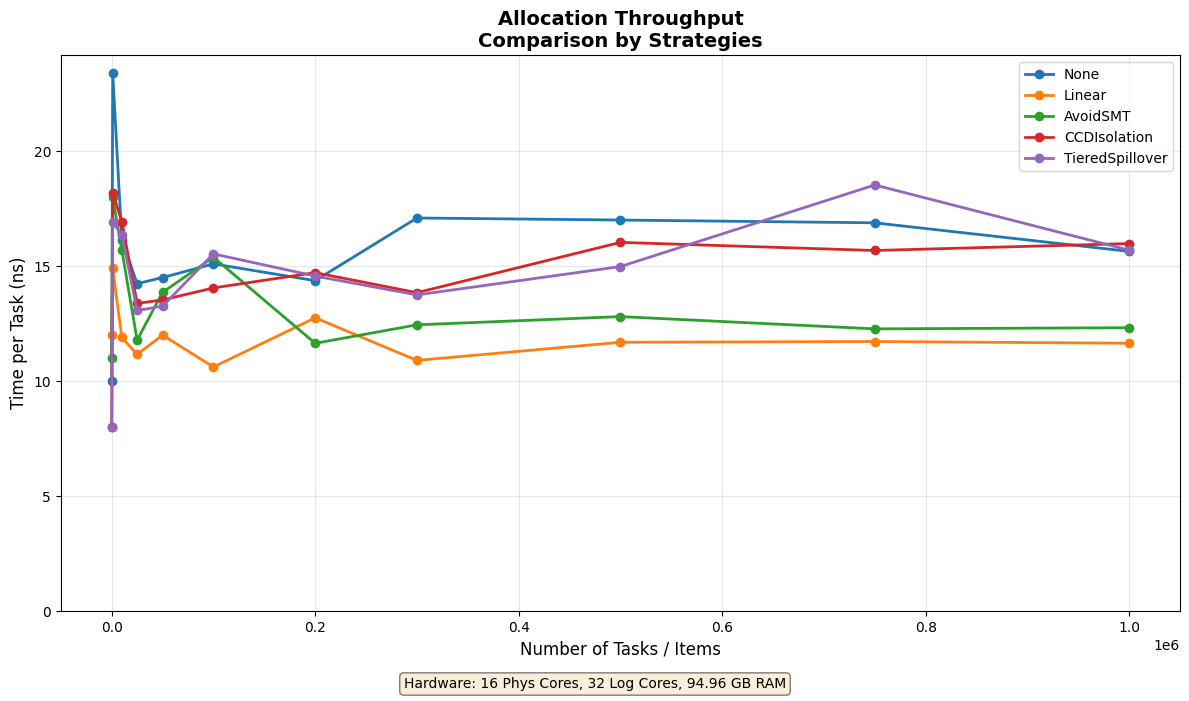
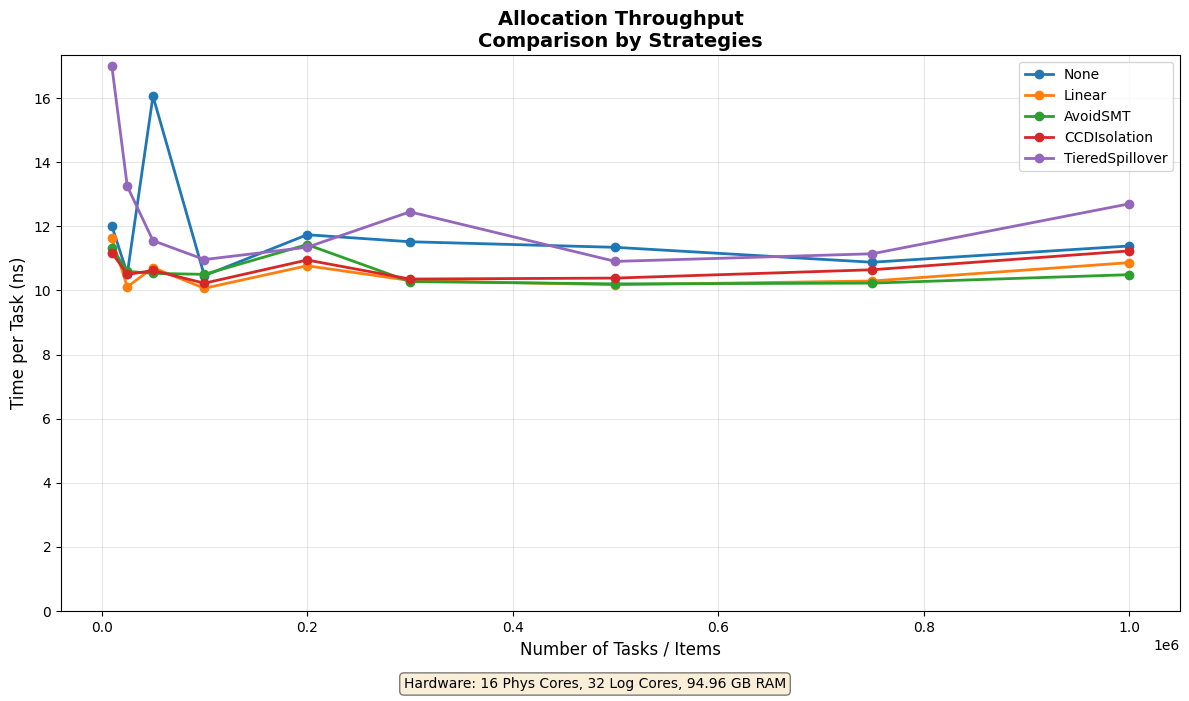
optimize benchmark , split overhead cost of smaller than 10k items to separate graph

diff --git a/src/benchmarks/nas_benchmarks.rs b/src/benchmarks/nas_benchmarks.rs
@@ -1,7 +1,7 @@
 use crate::utils::{BenchmarkResult, DataPoint, SystemInfo};
 use rustfiber::{JobSystem, PinningStrategy};
+use std::sync::Arc;
 use std::sync::atomic::{AtomicUsize, Ordering};
-use std::sync::{Arc, Mutex};
 use std::time::Instant;
 
 // Embarrassingly Parallel (EP) - Pure throughput test with zero communication
@@ -36,25 +36,21 @@ fn run_ep_benchmark(job_system: &JobSystem, num_tasks: usize) -> f64 {
 
 // Multi-Grid (MG) - Tests communication and memory bandwidth
 fn run_mg_benchmark(job_system: &JobSystem, grid_size: usize, threads: usize) -> f64 {
-    // Use a vector of per-chunk grids to reduce lock contention
+    // Use separate grids for each chunk to eliminate mutex contention
     let num_chunks = threads;
     let rows_per_chunk = grid_size / num_chunks;
 
-    // Each chunk gets its own grid section to reduce lock contention
-    let grids: Vec<_> = (0..num_chunks)
-        .map(|_| Arc::new(Mutex::new(vec![vec![0.0; grid_size]; rows_per_chunk + 2])))
-        .collect();
-
     let start = Instant::now();
 
-    // Simulate multi-grid operations with reduced communication
+    // Create independent jobs, each with its own grid
     let mut jobs: Vec<Box<dyn FnOnce() + Send>> = Vec::new();
-    for grid_clone in grids.iter().take(num_chunks) {
-        let grid_clone = grid_clone.clone();
+    for _ in 0..num_chunks {
+        // Each job gets its own grid - no sharing, no mutexes
+        let mut local_grid = vec![vec![0.0; grid_size]; rows_per_chunk + 2];
+
         jobs.push(Box::new(move || {
-            // Simulate stencil operations on local grid section
+            // Simulate stencil operations on local grid
             for _ in 0..10 {
-                let mut local_grid = grid_clone.lock().unwrap();
                 let local_size = local_grid.len();
                 for i in 1..local_size - 1 {
                     for j in 1..grid_size - 1 {
@@ -67,6 +63,8 @@ fn run_mg_benchmark(job_system: &JobSystem, grid_size: usize, threads: usize) ->
                     }
                 }
             }
+            // Prevent optimization of unused result
+            std::hint::black_box(local_grid);
         }));
     }
 
@@ -78,9 +76,6 @@ fn run_mg_benchmark(job_system: &JobSystem, grid_size: usize, threads: usize) ->
 
 // Conjugate Gradient (CG) - Tests irregular memory access
 fn run_cg_benchmark(job_system: &JobSystem, matrix_size: usize, threads: usize) -> f64 {
-    let vector = Arc::new(Mutex::new(vec![1.0; matrix_size]));
-    let result = Arc::new(Mutex::new(vec![0.0; matrix_size]));
-
     let start = Instant::now();
 
     // Simulate sparse matrix-vector multiplication with irregular access
@@ -89,25 +84,25 @@ fn run_cg_benchmark(job_system: &JobSystem, matrix_size: usize, threads: usize) 
 
     let mut jobs: Vec<Box<dyn FnOnce() + Send>> = Vec::new();
     for chunk in 0..num_chunks {
-        let vector_clone = vector.clone();
-        let result_clone = result.clone();
+        // Each job gets its own copy of input and output - no sharing
+        let input_vec = vec![1.0; matrix_size];
+        let mut output_vec = vec![0.0; chunk_size];
 
         jobs.push(Box::new(move || {
             let start_idx = chunk * chunk_size;
             let end_idx = ((chunk + 1) * chunk_size).min(matrix_size);
 
-            let vec = vector_clone.lock().unwrap();
-            let mut res = result_clone.lock().unwrap();
-
             // Irregular memory access pattern
-            for i in start_idx..end_idx {
+            for (local_i, i) in (start_idx..end_idx).enumerate() {
                 let mut sum = 0.0;
                 // Simulate sparse matrix access
                 for j in (i.saturating_sub(5)..=(i + 5).min(matrix_size - 1)).step_by(2) {
-                    sum += vec[j] * ((i + j) as f64 * 0.01);
+                    sum += input_vec[j] * ((i + j) as f64 * 0.01);
                 }
-                res[i] = sum;
+                output_vec[local_i] = sum;
             }
+            // Prevent optimization of unused result
+            std::hint::black_box(output_vec);
         }));
     }
 
@@ -130,7 +125,9 @@ pub fn run_nas_ep_benchmark(
         system_info.cpu_cores, system_info.total_memory_gb, strategy
     );
 
-    let ep_sizes = vec![10_000, 25_000, 50_000, 100_000, 200_000];
+    let ep_sizes = vec![
+        1, 10, 100, 1_000, 10_000, 25_000, 50_000, 100_000, 200_000, 300_000, 500_000, 1_000_000,
+    ];
     let mut data_points = Vec::new();
     let mut timed_out = false;
     let total_start = Instant::now();
@@ -147,7 +144,11 @@ pub fn run_nas_ep_benchmark(
         }
         eprintln!("Testing EP with {} tasks...", size);
         let elapsed_ms = run_ep_benchmark(job_system, size);
-        eprintln!("  Completed in {:.2} ms", elapsed_ms);
+        eprintln!(
+            "  Completed in {:.2} ms ({:.2} ns/item)",
+            elapsed_ms,
+            (elapsed_ms * 1_000_000.0) / (size as f64)
+        );
         data_points.push(DataPoint {
             num_tasks: size,
             time_ms: elapsed_ms,
@@ -177,17 +178,7 @@ pub fn run_nas_mg_benchmark(
         system_info.cpu_cores, system_info.total_memory_gb, strategy
     );
 
-    // Warmup: Ensure all threads are started and have allocated local resources
-    // This prevents "Cold Start" latency (memory allocation) from skewing the first benchmark data point.
-    eprintln!("Warming up workers...");
-    let warmup_jobs: Vec<Box<dyn FnOnce() + Send>> =
-        (0..threads * 4) // submit enough to wake everyone
-            .map(|_| Box::new(|| {}) as Box<dyn FnOnce() + Send>)
-            .collect();
-    let counter = job_system.run_multiple(warmup_jobs);
-    job_system.wait_for_counter(&counter);
-
-    let mg_sizes = vec![50, 100, 150, 200, 250, 300];
+    let mg_sizes = vec![16, 32, 64, 128, 256, 512, 1024];
     let mut data_points = Vec::new();
     let mut timed_out = false;
     let total_start = Instant::now();
@@ -234,7 +225,7 @@ pub fn run_nas_cg_benchmark(
         system_info.cpu_cores, system_info.total_memory_gb, strategy
     );
 
-    let cg_sizes = vec![10_000, 25_000, 50_000, 100_000];
+    let cg_sizes = vec![1_020_000, 10_050, 250_001, 50_000, 100_000];
     let mut data_points = Vec::new();
     let mut timed_out = false;
     let total_start = Instant::now();

diff --git a/src/tests.rs b/src/tests.rs
@@ -93,13 +93,14 @@ fn test_high_throughput() {
 #[test]
 fn test_yield_fairness() {
     let job_system = JobSystem::new(2);
-    // Use an atomic log to track order/interleaving
-    let log = Arc::new(std::sync::Mutex::new(Vec::new()));
+    // Use atomic counters to track completion without mutexes
+    let counter1 = Arc::new(AtomicUsize::new(0));
+    let counter2 = Arc::new(AtomicUsize::new(0));
 
-    let log1 = log.clone();
+    let counter1_clone = counter1.clone();
     let job1 = job_system.run(move || {
         for _ in 0..5 {
-            log1.lock().unwrap().push(1);
+            counter1_clone.fetch_add(1, Ordering::SeqCst);
             // This yield should allow job2 to run if on same thread,
             // or just be a no-op if on different threads.
             // But we want to test that it doesn't block forever.
@@ -107,10 +108,10 @@ fn test_yield_fairness() {
         }
     });
 
-    let log2 = log.clone();
+    let counter2_clone = counter2.clone();
     let job2 = job_system.run(move || {
         for _ in 0..5 {
-            log2.lock().unwrap().push(2);
+            counter2_clone.fetch_add(1, Ordering::SeqCst);
             crate::context::yield_now();
         }
     });
@@ -118,10 +119,9 @@ fn test_yield_fairness() {
     job_system.wait_for_counter(&job1);
     job_system.wait_for_counter(&job2);
 
-    let final_log = log.lock().unwrap();
-    assert_eq!(final_log.len(), 10);
-    // We expect some mixing, though exact interleaving depends on thread scheduling.
-    // At least ensure it completed.
+    assert_eq!(counter1.load(Ordering::SeqCst), 5);
+    assert_eq!(counter2.load(Ordering::SeqCst), 5);
+    // Both jobs completed their loops with yields
 
     job_system.shutdown().expect("Shutdown failed");
 }

diff --git a/src/benchmarks/batching_benchmark.rs b/src/benchmarks/batching_benchmark.rs
@@ -18,7 +18,8 @@ pub fn run_batching_benchmark(
     );
 
     let test_sizes = vec![
-        100, 1000, 10_000, 25_000, 50_000, 100_000, 200_000, 300_000, 500_000, 750_000, 1_000_000,
+        1, 100, 1000, 10_000, 25_000, 50_000, 100_000, 200_000, 300_000, 500_000, 750_000,
+        1_000_000,
     ];
 
     let mut data_points = Vec::new();
@@ -42,12 +43,12 @@ pub fn run_batching_benchmark(
         b
     }
     // Warmup: Run a large batching task to ensure all workers are awake and hot
-    eprintln!("Warming up workers with batching...");
-    let warmup_counter = job_system.parallel_for_chunked_auto(0..100_000, |_| {
-        std::hint::black_box(());
-    });
-    job_system.wait_for_counter(&warmup_counter);
-    std::thread::sleep(std::time::Duration::from_millis(5)); // Brief settle
+    // eprintln!("Warming up workers with batching...");
+    // let warmup_counter = job_system.parallel_for_chunked_auto(0..100_000, |_| {
+    //     std::hint::black_box(());
+    // });
+    // job_system.wait_for_counter(&warmup_counter);
+    // std::thread::sleep(std::time::Duration::from_millis(5)); // Brief settle
 
     for &num_items in &test_sizes {
         if total_start.elapsed() > timeout_duration {

diff --git a/src/benchmarks/main.rs b/src/benchmarks/main.rs
@@ -46,8 +46,8 @@ fn main() {
     let job_system =
         std::sync::Arc::new(rustfiber::JobSystem::new_with_strategy(threads, strategy));
 
-    // eprintln!("[STARTUP] Waiting 20ms for OS thread stabilization...");
-    // std::thread::sleep(std::time::Duration::from_millis(20));
+    eprintln!("[STARTUP] Waiting 20ms for OS thread stabilization...");
+    std::thread::sleep(std::time::Duration::from_millis(20));
 
     eprintln!("[STARTUP] Performing global first-touch warmup...");
     let warmup_counter = job_system.parallel_for_chunked_auto(0..1_000_000, |_| {

diff --git a/src/benchmarks/fibonacci.rs b/src/benchmarks/fibonacci.rs
@@ -40,7 +40,8 @@ pub fn run_fibonacci_benchmark(
     job_system.wait_for_counter(&counter);
 
     let test_sizes = vec![
-        10_000, 50_000, 100_000, 250_000, 500_000, 750_000, 1_000_000, 1_250_000, 1_500_000,
+        1, 10, 100, 1_000, 10_000, 50_000, 100_000, 250_000, 500_000, 750_000, 1_000_000,
+        1_250_000, 1_500_000, 2_000_000,
     ];
 
     let mut data_points = Vec::new();

diff --git a/src/benchmarks/allocation.rs b/src/benchmarks/allocation.rs
@@ -18,7 +18,8 @@ pub fn run_allocation_benchmark(
     );
 
     let test_sizes = vec![
-        100, 1_000, 10_000, 25_000, 50_000, 100_000, 200_000, 300_000, 500_000, 750_000, 1_000_000,
+        1, 100, 1_000, 10_000, 25_000, 50_000, 100_000, 200_000, 300_000, 500_000, 750_000,
+        1_000_000,
     ];
 
     // Warmup: Local allocation priming
